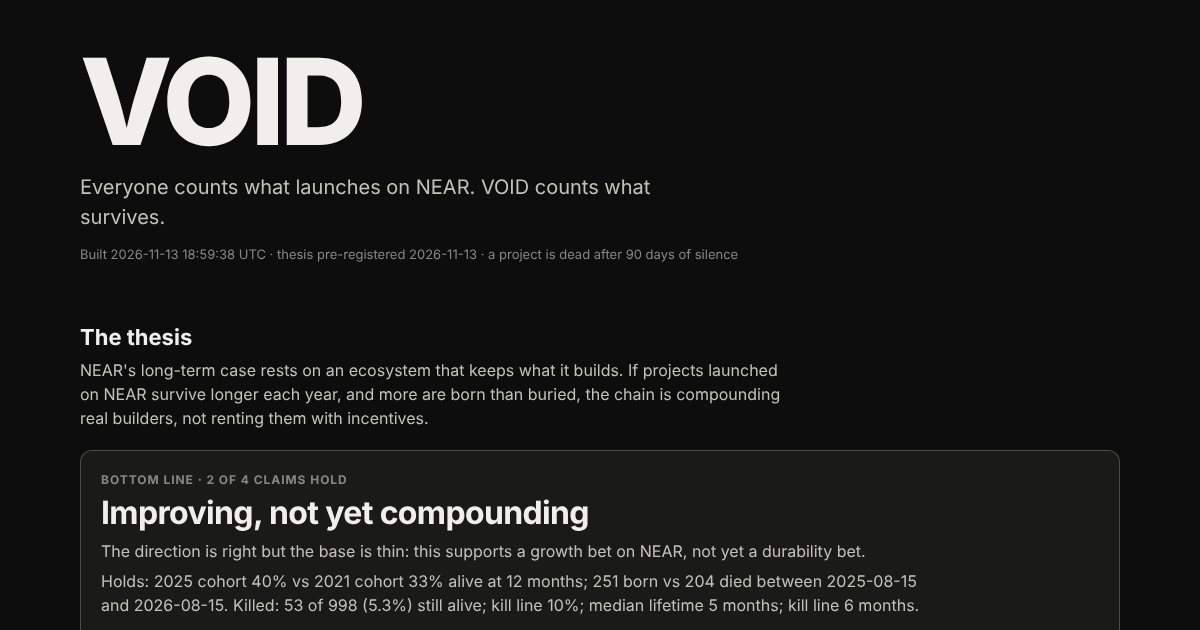
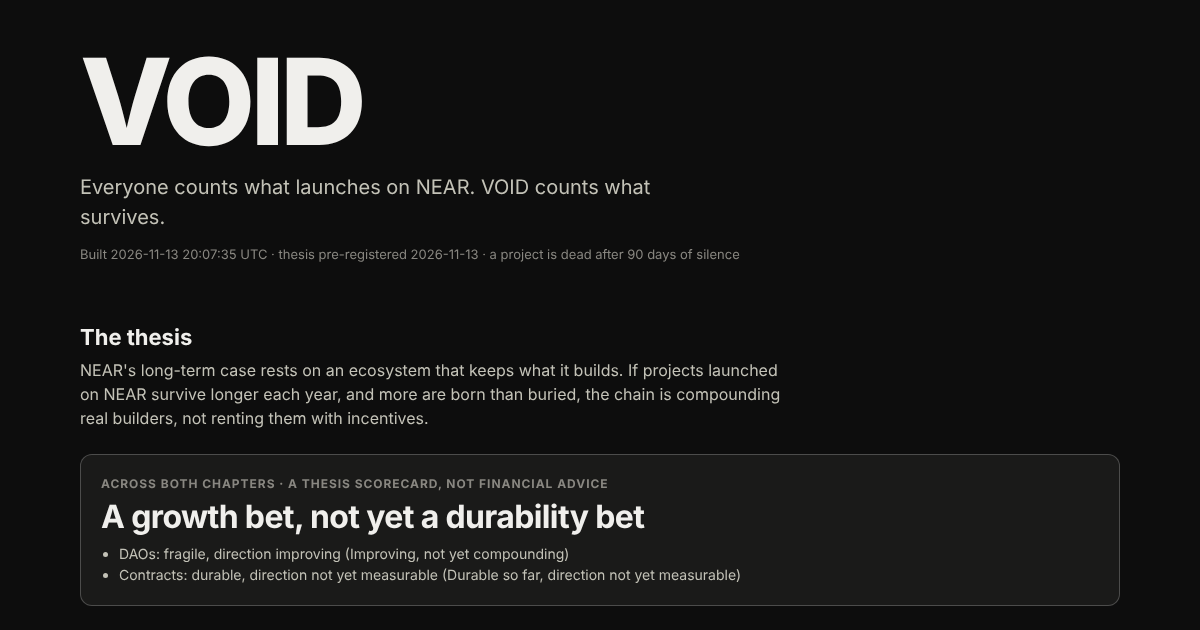
fix: correct death-reporting lag; add cross-chapter verdict
- a death is only visible 90 days after the last activity, so living
  projects are now censored at end - 90 days; recent cohorts no longer look
  healthier than they are. Overall medians drop (DAOs 5->3 mo, contracts
  17->9 mo); no verdict changes
- 'Across both chapters' card and static summary line for each chapter
- births vs deaths notes generated from the data
- NEAR side of the Snapshot table computed live; Snapshot results are shown
  only when produced with the same survival method version

Claude-Session: https://claude.ai/code/session_01FDSeatF7dGQzx2uRNh8eyB

Changed region(s): [[0.0617, 0.754, 0.7708, 0.9952], [0.0925, 0.6937, 0.925, 0.7238], [0.1542, 0.3921, 0.6167, 0.4222]]

diff --git a/docs/index.html b/docs/index.html
@@ -78,11 +78,12 @@ a{color:var(--s1)}
   <h1>VOID</h1>
   <p class="lede">Everyone counts what launches on NEAR. VOID counts what survives.</p>
   <p class="meta" id="meta">Interactive charts need JavaScript. Summary of the latest build:</p>
-  <div class="sub" id="static"><!--void:summary--><p><b>Bottom line: Improving, not yet compounding.</b> The direction is right but the base is thin: this supports a growth bet on NEAR, not yet a durability bet. 1,437 projects ever active, 337 still alive; 2 of 4 pre-registered claims hold. Holds: Newer cohorts survive longer (2025 cohort 40% vs 2021 cohort 33% alive at 12 months); Births outpace deaths (251 born vs 204 died between 2025-08-15 and 2026-08-15). Killed: Not just a graveyard (53 of 998 (5.3%) still alive; kill line 10%); Not one-hit wonders (median lifetime 5 months; kill line 6 months).</p><!--/void:summary--></div>
+  <div class="sub" id="static"><!--void:summary--><p><b>Across both chapters: A growth bet, not yet a durability bet.</b></p><p><b>DAOs: Improving, not yet compounding.</b> The direction is right but the base is thin: this supports a growth bet on NEAR, not yet a durability bet. 1,437 active, 337 still alive; 2 of 4 pre-registered claims hold. Holds: Newer cohorts survive longer (2025 cohort 38% vs 2021 cohort 33% alive at 12 months); Births outpace deaths (251 born vs 204 died between 2025-08-15 and 2026-08-15). Killed: Not just a graveyard (53 of 998 (5.3%) still alive; kill line 10%); Not one-hit wonders (median lifetime 3 months; kill line 6 months).</p><p><b>Contracts: Durable so far, direction not yet measurable.</b> What exists is sticky, but there is not enough history to tell whether newer cohorts do better. 424 active, 240 still alive; 3 of 4 pre-registered claims hold. Holds: Not just a graveyard (133 of 310 (42.9%) still alive; kill line 10%); Births outpace deaths (117 born vs 61 died between 2025-08-15 and 2026-08-15); Not one-hit wonders (median lifetime 9 months; kill line 6 months).</p><!--/void:summary--></div>
 
   <h2>The thesis</h2>
   <p class="sub" id="thesis"></p>
 
+  <div id="combined"></div>
   <div class="tabs" role="tablist" id="tabs"></div>
   <div id="chapter"></div>
 
@@ -120,6 +121,10 @@ function render(d){
   document.getElementById('static').style.display='none';
   document.getElementById('meta').textContent =
     `Built ${d.built_at.replace('T',' ').replace('+00:00',' UTC')} · thesis pre-registered ${d.thesis.written} · a project is dead after ${d.thesis.death_gap_days} days of silence`;
+  if (d.combined) document.getElementById('combined').innerHTML = `<div class="card bl" style="margin-top:24px">
+    <div class="k">Across both chapters · a thesis scorecard, not financial advice</div>
+    <h3>${esc(d.combined.headline)}</h3>
+    <ul>${d.combined.parts.map(p=>`<li>${esc(p)}</li>`).join('')}</ul></div>`;
   const keys = Object.keys(d.chapters);
   const tabs = document.getElementById('tabs');
   keys.forEach((k,i)=>{
@@ -202,6 +207,7 @@ function chapter(key, c, d){
   <h2>Born vs buried</h2>
   <p class="sub">New ${meta.noun} per quarter against ${meta.noun} whose last activity fell in that quarter. Deaths in the latest ${c.death_gap_days} days can't be known yet and are shown faded.</p>
   <div class="card chart" id="bd"></div>
+  ${c.births_deaths_note?`<p class="sub" style="margin-top:8px">${esc(c.births_deaths_note)}</p>`:''}
 
   <div class="two" style="margin-top:56px">
     <div><h2 style="margin-top:0">Tombstones</h2><p class="sub">The busiest ${meta.noun} that went quiet.</p><div class="card">${table(c.tombstones, meta)}</div></div>
@@ -299,7 +305,7 @@ function bdChart(host, rows){
 
 function method(key, c){
   const s=c.source||{}, cen=c.census||{};
-  const base = `<p><b>Alive vs dead.</b> A project is <i>dead</i> once ${c.death_gap_days} days pass with no activity. Its birth is its first observed activity. Projects still alive are right-censored in the survival curves, so young cohorts are never counted as dead early.</p>`;
+  const base = `<p><b>Alive vs dead.</b> A project is <i>dead</i> once ${c.death_gap_days} days pass with no activity. Its birth is its first observed activity. A death only becomes visible ${c.death_gap_days} days after the last activity, so survival curves stop ${c.death_gap_days} days before the data ends and living projects are censored there; otherwise recent cohorts would look healthier than they are. The overall curve pools all cohorts, so it can differ from any single cohort's curve.</p>`;
   const per = key==='daos'
     ? `<p><b>Source.</b> Every DAO listed by the <code>${esc(s.factory||'sputnik-dao.near')}</code> factory, and every proposal's submission time, read with plain RPC view calls (<code>${esc(s.rpc||'')}</code>). Activity = a proposal submitted. DAOs with zero proposals are counted as <i>stillborn</i>. Proposals filed by onboarding sponsor accounts (${esc((cen.automated_proposers||[]).join(', '))}) are not counted as activity, and ${fmt(cen.automated_only)} DAOs that only ever saw those are excluded; ${fmt(cen.unreadable)} DAOs on incompatible contract versions could not be read.</p>`
     : `<p><b>Window.</b> Only activity since <b>${esc(cen.window_start||cen.start_date||'')}</b> was scanned (BigQuery free tier). ${fmt(cen.preexisting_excluded)} contracts were dropped as older than the window: either already in use in its first month, or in use before their first in-window deploy (an upgrade). Contracts born before the window that were quiet at its start and came back later can still slip in, which flatters survival. Treat this chapter as short-history evidence.</p>

diff --git a/site/index.html b/site/index.html
@@ -78,11 +78,12 @@ a{color:var(--s1)}
   <h1>VOID</h1>
   <p class="lede">Everyone counts what launches on NEAR. VOID counts what survives.</p>
   <p class="meta" id="meta">Interactive charts need JavaScript. Summary of the latest build:</p>
-  <div class="sub" id="static"><!--void:summary--><p><b>Bottom line: Improving, not yet compounding.</b> The direction is right but the base is thin: this supports a growth bet on NEAR, not yet a durability bet. 1,437 projects ever active, 337 still alive; 2 of 4 pre-registered claims hold. Holds: Newer cohorts survive longer (2025 cohort 40% vs 2021 cohort 33% alive at 12 months); Births outpace deaths (251 born vs 204 died between 2025-08-15 and 2026-08-15). Killed: Not just a graveyard (53 of 998 (5.3%) still alive; kill line 10%); Not one-hit wonders (median lifetime 5 months; kill line 6 months).</p><!--/void:summary--></div>
+  <div class="sub" id="static"><!--void:summary--><p><b>Across both chapters: A growth bet, not yet a durability bet.</b></p><p><b>DAOs: Improving, not yet compounding.</b> The direction is right but the base is thin: this supports a growth bet on NEAR, not yet a durability bet. 1,437 active, 337 still alive; 2 of 4 pre-registered claims hold. Holds: Newer cohorts survive longer (2025 cohort 38% vs 2021 cohort 33% alive at 12 months); Births outpace deaths (251 born vs 204 died between 2025-08-15 and 2026-08-15). Killed: Not just a graveyard (53 of 998 (5.3%) still alive; kill line 10%); Not one-hit wonders (median lifetime 3 months; kill line 6 months).</p><p><b>Contracts: Durable so far, direction not yet measurable.</b> What exists is sticky, but there is not enough history to tell whether newer cohorts do better. 424 active, 240 still alive; 3 of 4 pre-registered claims hold. Holds: Not just a graveyard (133 of 310 (42.9%) still alive; kill line 10%); Births outpace deaths (117 born vs 61 died between 2025-08-15 and 2026-08-15); Not one-hit wonders (median lifetime 9 months; kill line 6 months).</p><!--/void:summary--></div>
 
   <h2>The thesis</h2>
   <p class="sub" id="thesis"></p>
 
+  <div id="combined"></div>
   <div class="tabs" role="tablist" id="tabs"></div>
   <div id="chapter"></div>
 
@@ -120,6 +121,10 @@ function render(d){
   document.getElementById('static').style.display='none';
   document.getElementById('meta').textContent =
     `Built ${d.built_at.replace('T',' ').replace('+00:00',' UTC')} · thesis pre-registered ${d.thesis.written} · a project is dead after ${d.thesis.death_gap_days} days of silence`;
+  if (d.combined) document.getElementById('combined').innerHTML = `<div class="card bl" style="margin-top:24px">
+    <div class="k">Across both chapters · a thesis scorecard, not financial advice</div>
+    <h3>${esc(d.combined.headline)}</h3>
+    <ul>${d.combined.parts.map(p=>`<li>${esc(p)}</li>`).join('')}</ul></div>`;
   const keys = Object.keys(d.chapters);
   const tabs = document.getElementById('tabs');
   keys.forEach((k,i)=>{
@@ -202,6 +207,7 @@ function chapter(key, c, d){
   <h2>Born vs buried</h2>
   <p class="sub">New ${meta.noun} per quarter against ${meta.noun} whose last activity fell in that quarter. Deaths in the latest ${c.death_gap_days} days can't be known yet and are shown faded.</p>
   <div class="card chart" id="bd"></div>
+  ${c.births_deaths_note?`<p class="sub" style="margin-top:8px">${esc(c.births_deaths_note)}</p>`:''}
 
   <div class="two" style="margin-top:56px">
     <div><h2 style="margin-top:0">Tombstones</h2><p class="sub">The busiest ${meta.noun} that went quiet.</p><div class="card">${table(c.tombstones, meta)}</div></div>
@@ -299,7 +305,7 @@ function bdChart(host, rows){
 
 function method(key, c){
   const s=c.source||{}, cen=c.census||{};
-  const base = `<p><b>Alive vs dead.</b> A project is <i>dead</i> once ${c.death_gap_days} days pass with no activity. Its birth is its first observed activity. Projects still alive are right-censored in the survival curves, so young cohorts are never counted as dead early.</p>`;
+  const base = `<p><b>Alive vs dead.</b> A project is <i>dead</i> once ${c.death_gap_days} days pass with no activity. Its birth is its first observed activity. A death only becomes visible ${c.death_gap_days} days after the last activity, so survival curves stop ${c.death_gap_days} days before the data ends and living projects are censored there; otherwise recent cohorts would look healthier than they are. The overall curve pools all cohorts, so it can differ from any single cohort's curve.</p>`;
   const per = key==='daos'
     ? `<p><b>Source.</b> Every DAO listed by the <code>${esc(s.factory||'sputnik-dao.near')}</code> factory, and every proposal's submission time, read with plain RPC view calls (<code>${esc(s.rpc||'')}</code>). Activity = a proposal submitted. DAOs with zero proposals are counted as <i>stillborn</i>. Proposals filed by onboarding sponsor accounts (${esc((cen.automated_proposers||[]).join(', '))}) are not counted as activity, and ${fmt(cen.automated_only)} DAOs that only ever saw those are excluded; ${fmt(cen.unreadable)} DAOs on incompatible contract versions could not be read.</p>`
     : `<p><b>Window.</b> Only activity since <b>${esc(cen.window_start||cen.start_date||'')}</b> was scanned (BigQuery free tier). ${fmt(cen.preexisting_excluded)} contracts were dropped as older than the window: either already in use in its first month, or in use before their first in-window deploy (an upgrade). Contracts born before the window that were quiet at its start and came back later can still slip in, which flatters survival. Treat this chapter as short-history evidence.</p>

diff --git a/void/build.py b/void/build.py
@@ -5,8 +5,8 @@ import json
 from datetime import date, datetime, timezone
 from pathlib import Path
 
-from .survival import Entity, analyse
-from .thesis import bottom_line, score
+from .survival import METHOD_VERSION, Entity, analyse
+from .thesis import births_deaths_note, bottom_line, combined_line, score
 
 ROOT = Path(__file__).resolve().parent.parent
 SENSITIVITY_GAPS = (60, 90, 180)
@@ -30,11 +30,16 @@ MARK = ("<!--void:summary-->", "<!--/void:summary-->")
 
 def static_summary(out: dict) -> str:
     """Plain-HTML summary so link previews and no-JS readers see the result."""
-    c = next(iter(out["chapters"].values()))
-    b = c["bottom_line"]
-    return (f"<p><b>Bottom line: {b['headline']}.</b> {b['meaning']} "
-            f"{c['total']:,} projects ever active, {c['alive']:,} still alive; "
-            f"{b['holds']} of {b['total']} pre-registered claims hold. {b['evidence']}</p>")
+    html = []
+    if out.get("combined"):
+        html.append(f"<p><b>Across both chapters: {out['combined']['headline']}.</b></p>")
+    for name, c in out["chapters"].items():
+        b = c["bottom_line"]
+        label = {"daos": "DAOs", "contracts": "Contracts"}[name]
+        html.append(f"<p><b>{label}: {b['headline']}.</b> {b['meaning']} "
+                    f"{c['total']:,} active, {c['alive']:,} still alive; "
+                    f"{b['holds']} of {b['total']} pre-registered claims hold. {b['evidence']}</p>")
+    return "".join(html)
 
 
 def inject_summary(index: Path, html: str) -> None:
@@ -101,20 +106,27 @@ def run(data_dir: Path, site_dir: Path, thesis_path: Path = ROOT / "thesis.json"
         out["chapters"]["daos"] = chapter(raw, end, thesis, "proposals")
         print(f"[build] DAOs: {len(raw['entities'])} entities")
 
-    bench = ROOT / "benchmarks" / "snapshot"
-    if "daos" in out["chapters"] and (bench / "results.json").exists():
-        snap = json.loads((bench / "results.json").read_text())["variants"]
-        near = json.loads((bench / "near_same_filters.json").read_text())
-        rows = []
-        for k in ("min_proposals_1", "min_proposals_2", "min_proposals_5"):
-            s, n = snap[k], near[k]
-            rows.append({"min_proposals": int(k.rsplit("_", 1)[1]),
-                         "near": {"n": n["daos"], "alive": n["alive"], "s12": n["s12"],
-                                  "median_months": n["median_months"]},
-                         "snapshot": {"n": s["spaces"], "alive": s["alive"], "s12": s["s12"],
-                                      "median_months": s["median_months"]}})
-        out["chapters"]["daos"]["benchmark"] = {"name": "Ethereum and EVM chains, off-chain voting",
-                                                "rows": rows}
+    bench = ROOT / "benchmarks" / "snapshot" / "results.json"
+    if "daos" in out["chapters"] and bench.exists():
+        snap = json.loads(bench.read_text())
+        if snap.get("method_version") == METHOD_VERSION:
+            raw = json.loads(daos.read_text())
+            end = date.fromisoformat(snap["observation_end"])
+            rows = []
+            for minp in (1, 2, 5):
+                ents = [e for e in load_entities(raw["entities"]) if e.activity >= minp]
+                a = analyse(ents, end, thesis.get("death_gap_days", 90))
+                sv = snap["variants"][f"min_proposals_{minp}"]
+                rows.append({"min_proposals": minp,
+                             "near": {"n": a["total"], "alive": a["alive"], "s12": a["overall"]["s12"],
+                                      "median_months": a["overall"]["median_months"]},
+                             "snapshot": {"n": sv["spaces"], "alive": sv["alive"], "s12": sv["s12"],
+                                          "median_months": sv["median_months"]}})
+            out["chapters"]["daos"]["benchmark"] = {"name": "Ethereum and EVM chains, off-chain voting",
+                                                    "rows": rows}
+        else:
+            print("[build] Snapshot benchmark skipped: computed with an older survival method; "
+                  "re-run benchmarks/snapshot/analyse.py")
 
     contracts = data_dir / "contracts.json"
     if contracts.exists():
@@ -124,6 +136,12 @@ def run(data_dir: Path, site_dir: Path, thesis_path: Path = ROOT / "thesis.json"
         out["chapters"]["contracts"]["breakdown"] = breakdown(
             drop_left_truncated(raw)["entities"], end, thesis.get("death_gap_days", 90))
         print(f"[build] contracts: {len(raw['entities'])} entities")
+
+    for ch in out["chapters"].values():
+        ch["births_deaths_note"] = births_deaths_note(ch["births_deaths"])
+    named = {{"daos": "DAOs", "contracts": "Contracts"}[k]: v for k, v in out["chapters"].items()}
+    out["combined"] = combined_line(named)
+    out["method_version"] = METHOD_VERSION
 
     if not out["chapters"]:
         raise SystemExit("no data yet: run `python -m void dao` (and/or `contracts`) first")

diff --git a/void/thesis.py b/void/thesis.py
@@ -112,6 +112,7 @@ def bottom_line(claims: list[dict]) -> dict:
         return True
 
     trend, level = side(TREND), side(LEVEL)
+    sides = {"trend": trend, "level": level}
     headline, meaning = VERDICTS[(trend, level)]
     holds = [c for c in claims if c["status"] == "holds"]
     killed = [c for c in claims if c["status"] == "killed"]
@@ -120,7 +121,54 @@ def bottom_line(claims: list[dict]) -> dict:
         parts.append("Holds: " + "; ".join(f"{c['title']} ({c['evidence']})" for c in holds) + ".")
     if killed:
         parts.append("Killed: " + "; ".join(f"{c['title']} ({c['evidence']})" for c in killed) + ".")
-    return {"headline": headline, "meaning": meaning, "evidence": " ".join(parts),
+    return {"headline": headline, "meaning": meaning, "evidence": " ".join(parts), "sides": sides,
             "holds": len(holds), "killed": len(killed), "total": len(claims),
             "upgrade_if": [c["title"] for c in claims if c["status"] != "holds"],
             "downgrade_if": [c["kill"] for c in holds]}
+
+
+def combined_line(chapters: dict) -> dict | None:
+    """One read across chapters, derived only from each chapter's sides."""
+    if len(chapters) < 2:
+        return None
+    trends = [c["bottom_line"]["sides"]["trend"] for c in chapters.values()]
+    levels = [c["bottom_line"]["sides"]["level"] for c in chapters.values()]
+    trend = False if False in trends else (True if True in trends else None)
+    level = (True if all(x is True for x in levels) else
+             False if all(x is False for x in levels) else "mixed")
+    table = {
+        (True, True): "Compounding: NEAR keeps what it builds",
+        (True, "mixed"): "A growth bet, not yet a durability bet",
+        (True, False): "A growth bet, not yet a durability bet",
+        (None, True): "Durable so far; too early to call the direction",
+        (None, "mixed"): "Mixed retention; too early to call the direction",
+        (None, False): "Weak retention; too early to call the direction",
+        (False, True): "Durable but stalling",
+        (False, "mixed"): "Mixed retention, and the direction is worsening",
+        (False, False): "Thesis killed: NEAR is renting builders",
+    }
+    word = {True: "improving", None: "not yet measurable", False: "worsening"}
+    lvl = {True: "durable", None: "not yet measurable", False: "fragile"}
+    parts = [f"{name}: {lvl[c['bottom_line']['sides']['level']]}, direction "
+             f"{word[c['bottom_line']['sides']['trend']]} ({c['bottom_line']['headline']})"
+             for name, c in chapters.items()]
+    return {"headline": table[(trend, level)], "parts": parts}
+
+
+def births_deaths_note(rows: list[dict]) -> str:
+    final = [r for r in rows if r["deaths_final"]]
+    if not final:
+        return ""
+    net = sum(r["births"] - r["deaths"] for r in final)
+    best = max(final, key=lambda r: r["births"] - r["deaths"])
+    worse = [r["quarter"] for r in final if r["deaths"] > r["births"]]
+    out = []
+    if net > 0 and best["births"] - best["deaths"] > net / 2:
+        out.append(f"Over half of the net surplus comes from one quarter, {best['quarter']} "
+                   f"({best['births']} born vs {best['deaths']} died).")
+    if len(worse) > 3:
+        out.append(f"More died than were born in {len(worse)} of {len(final)} quarters "
+                   f"with final data, most recently {worse[-1]}.")
+    elif worse:
+        out.append("More died than were born in " + ", ".join(worse) + ".")
+    return " ".join(out)

diff --git a/tests/test_void.py b/tests/test_void.py
@@ -18,7 +18,7 @@ def test_lifetime_dead_vs_censored():
     alive = ent(2, "2024-01-01", "2026-11-01")
     assert lifetime_months(dead, END, 90) == (5, True)
     m, d = lifetime_months(alive, END, 90)
-    assert not d and m == 34
+    assert not d and m == 31  # censored at END - 90 days
 
 
 def test_kaplan_meier_simple():
@@ -28,7 +28,7 @@ def test_kaplan_meier_simple():
     c = kaplan_meier(es, END, 90, horizon=12, min_at_risk=1)
     assert c[0]["survival"] == 1.0
     assert c[1]["survival"] == 0.5
-    assert c[10]["survival"] == 0.5  # censored entities never count as deaths
+    assert c[7]["survival"] == 0.5  # censored entities never count as deaths
 
 
 def test_km_respects_min_at_risk():
@@ -165,8 +165,12 @@ def test_contracts_window_drops_preexisting(tmp_path):
     assert [g["total"] for g in ch["breakdown"]] == [30, 0]
 
 
-def test_snapshot_benchmark_attached():
-    data = json.loads(build.run(build.ROOT / "data", build.ROOT / "site").read_text())
-    rows = data["chapters"]["daos"]["benchmark"]["rows"]
-    assert [r["min_proposals"] for r in rows] == [1, 2, 5]
-    assert rows[0]["near"]["n"] == data["chapters"]["daos"]["total"]
+def test_combined_line_and_notes():
+    from void.thesis import births_deaths_note, combined_line
+    ch = {"DAOs": {"bottom_line": {"headline": "x", "sides": {"trend": True, "level": False}}},
+          "Contracts": {"bottom_line": {"headline": "y", "sides": {"trend": None, "level": True}}}}
+    assert combined_line(ch)["headline"] == "A growth bet, not yet a durability bet"
+    rows = [{"quarter": "2025-Q4", "births": 75, "deaths": 19, "deaths_final": True},
+            {"quarter": "2026-Q2", "births": 5, "deaths": 12, "deaths_final": True}]
+    note = births_deaths_note(rows)
+    assert "2025-Q4" in note and "2026-Q2" in note

diff --git a/void/survival.py b/void/survival.py
@@ -28,9 +28,15 @@ def is_dead(e: Entity, end: date, gap_days: int) -> bool:
 
 
 def lifetime_months(e: Entity, end: date, gap_days: int) -> tuple[int, bool]:
-    """Return (whole months observed, died?)."""
+    """Return (whole months observed, died?).
+
+    A death only becomes visible `gap_days` after the last activity, so a
+    project that went quiet last month cannot be called dead yet. Living
+    projects are therefore censored at end - gap_days, the last date on which
+    every death is already observable; otherwise recent cohorts would look
+    healthier than they are."""
     dead = is_dead(e, end, gap_days)
-    stop = e.last if dead else end
+    stop = e.last if dead else end - timedelta(days=gap_days)
     months = int(max(0, (stop - e.birth).days) // DAYS_PER_MONTH)
     return months, dead
 
@@ -42,7 +48,8 @@ def kaplan_meier(entities: Iterable[Entity], end: date, gap_days: int,
     Points are dropped once fewer than `min_at_risk` entities are still under
     observation, so the tail of a young cohort is never reported from noise.
     """
-    obs = [lifetime_months(e, end, gap_days) for e in entities]
+    horizon_start = end - timedelta(days=gap_days)
+    obs = [lifetime_months(e, end, gap_days) for e in entities if e.birth < horizon_start]
     if not obs:
         return []
     deaths: dict[int, int] = {}
@@ -145,3 +152,6 @@ def analyse(entities: list[Entity], end: date, gap_days: int = 90,
 def _row(e: Entity) -> dict:
     return {"id": e.id, "born": e.birth.isoformat(), "last": e.last.isoformat(),
             "activity": e.activity}
+
+
+METHOD_VERSION = 2  # 2 = living projects censored at end - gap (death-reporting lag)

diff --git a/benchmarks/snapshot/analyse.py b/benchmarks/snapshot/analyse.py
@@ -17,7 +17,7 @@ from pathlib import Path
 
 ROOT = Path(__file__).resolve().parents[2]
 sys.path.insert(0, str(ROOT))
-from void.survival import Entity, analyse  # noqa: E402
+from void.survival import METHOD_VERSION, Entity, analyse  # noqa: E402
 from void.thesis import score  # noqa: E402
 
 HERE = Path(__file__).resolve().parent
@@ -38,7 +38,7 @@ def d(t):
     return datetime.fromtimestamp(t, timezone.utc).date()
 
 
-out = {"observation_end": END.isoformat(), "flagged_proposals_excluded": flagged,
+out = {"method_version": METHOD_VERSION, "observation_end": END.isoformat(), "flagged_proposals_excluded": flagged,
        "total_proposals_kept": sum(len(v) for v in spaces.values()), "variants": {}}
 for minp in (1, 2, 5):
     ents = [Entity(s, d(min(ts)), d(max(ts)), len(ts)) for s, ts in spaces.items()

diff --git a/README.md b/README.md
@@ -40,15 +40,7 @@ Each claim resolves to **holds**, **killed**, or **not enough data**, with the n
 
 ## NEAR vs Snapshot
 
-`benchmarks/snapshot/` runs the exact same survival and thesis code on every Snapshot space (424k proposals from the public hub, flagged proposals removed, same 90-day rule, same observation date).
-
-| DAOs with at least | NEAR: survive year one | NEAR: median life | Snapshot: survive year one | Snapshot: median life |
-|---|---|---|---|---|
-| 1 proposal | 28% | 5 mo | 5% | 1 mo |
-| 2 proposals | 31% | 6 mo | 12% | 1 mo |
-| 5 proposals | 38% | 9 mo | 27% | 10 mo |
-
-Snapshot is free and off-chain, so it carries far more spam; the 5-proposal row is the fairest. There, NEAR DAOs are more likely to survive their first year, while Snapshot DAOs that do survive live slightly longer.
+`benchmarks/snapshot/` runs the exact same survival and thesis code on every Snapshot space (424k proposals from the public hub, flagged proposals removed, same 90-day rule, same observation date). The table is on the dashboard's DAOs tab. Snapshot is free and off-chain, so it carries far more spam; the 5-proposal row is the fairest comparison. Reproduce with `python benchmarks/snapshot/fetch_snapshot.py` then `python benchmarks/snapshot/analyse.py`.
 
 ## What it measures
 
@@ -70,7 +62,7 @@ From Google's public NEAR dataset (`bigquery-public-data.crypto_near_mainnet_us.
 
 ### Survival math
 - A project is **dead** after **90 days** of silence (configurable in `thesis.json`)
-- Survival curves use **Kaplan–Meier** with right-censoring: a project that is still alive counts as "survived at least this long", never as dead. That keeps young cohorts from looking worse than they are.
+- Survival curves use **Kaplan–Meier** with right-censoring: a project that is still alive counts as "survived at least this long", never as dead. Because a death only becomes visible 90 days after the last activity, living projects are censored 90 days before the data ends; otherwise recent cohorts would look healthier than they are. (Fixed on 2026-11-14; it lowered the overall medians but changed no verdict.)
 - Cohort = year of first activity. Curves stop once fewer than 10 projects remain under observation.
 - **Born vs buried**: births and deaths per quarter. Deaths inside the last 90 days are shown as not yet final.
 
